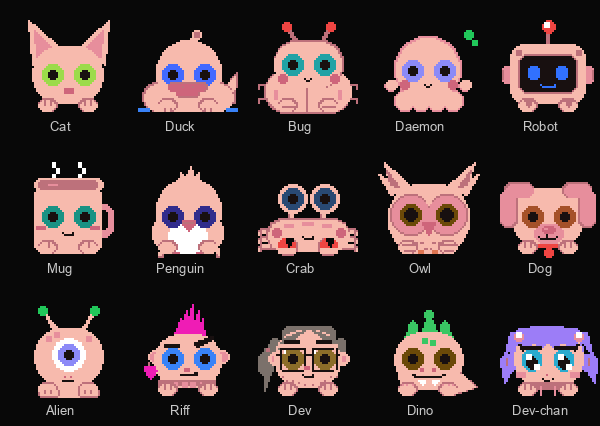
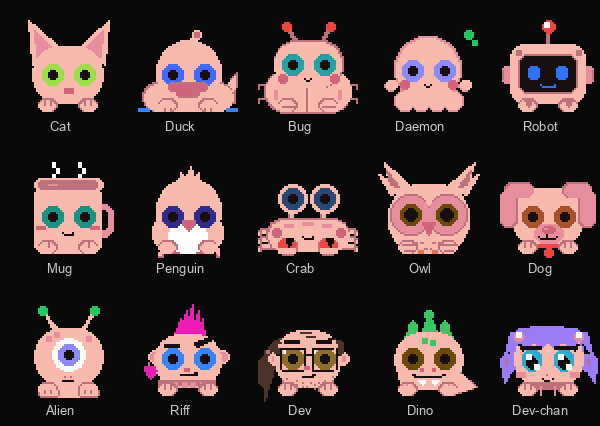
fix(pets): the Dev is a veteran: bare top, dark hair at the sides, a long ponytail
The grey hair cap read as a grandmother. Now the top of the head is bare
(two thin strands), the dark brown hair only shows at the sides and back,
the ponytail hangs to the shoulder, the stubble is clearly visible, the
brows are flat with the right one raised and the mouth is a slight smirk.
README lineup regenerated.

Changed region(s): [[0.42, 0.7629, 0.6, 0.946]]

diff --git a/firmware/lib/miblo_ui/src/ui_pet_dev.cpp b/firmware/lib/miblo_ui/src/ui_pet_dev.cpp
@@ -1,6 +1,6 @@
 // The Dev pet (miblo::Pet::Dev): an original veteran developer, a round creature (not a human)
-// with thin rectangular glasses, swept-back greying hair tied in a ponytail (the accent colour),
-// a stubble shadow, calm eyebrows and a mild little smile. See ui_pet.h for the contract.
+// with thin rectangular glasses, a high bare forehead, dark hair only on the sides and back tied in
+// a long ponytail (the accent colour), stubble, flat sceptical eyebrows and a slight smirk. See ui_pet.h for the contract.
 #include "miblo_rom.h"
 #include "ui_pet.h"
 
@@ -10,25 +10,27 @@ namespace color = ui::color;
 
 namespace {
 
-constexpr uint16_t kGreyHair = 0x7B8D;  // #78706c: the hair's Auto colour (salt and pepper)
+constexpr uint16_t kDarkHair = 0x49A5;  // #4a3428: the hair's Auto colour (dark brown)
 constexpr uint16_t kHazel = 0x8B65;     // #8c6c28: the eyes' Auto colour
 
 // The stubble: dots around the mouth and along the jaw (before c.x / c.b).
-const int8_t kStubble[][2] MIBLO_ROM = {{-18, 20}, {-14, 24}, {-20, 25}, {-9, 27}, {-15, 29}, {-3, 29},
-                                        {3, 28},   {10, 27},  {16, 29},  {14, 24}, {19, 21}, {21, 26},
-                                        {-23, 21}, {24, 22}};
+const int8_t kStubble[][2] MIBLO_ROM = {{-22, 19}, {-19, 23}, {-23, 25}, {-15, 26}, {-11, 24}, {-18, 29},
+                                        {-11, 29}, {-6, 27},  {-2, 30},  {2, 26},   {5, 29},   {9, 26},
+                                        {12, 29},  {15, 24},  {18, 28},  {21, 21},  {22, 25},  {-5, 31},
+                                        {6, 32}};
 
 // The ponytail, tied at the back of the head on its left and hanging down, swung by `sway`.
 void ponytail(const PetCtx& c, int sway) {
   MascotPen& d = c.d;
   const int x = c.x, b = c.b;
-  d.circle(-30 + x, -6 + b, 6, c.mc.accent);  // the tuft where it is tied
-  d.tri(-40 + x, -4 + b, -26 + x, -2 + b, -40 + sway + x, 34 + b, c.mc.accent);
-  d.rrect(-45 + sway / 2 + x, 0 + b, 12, 22, 6, c.mc.accent);
-  d.rect(-37 + x, -3 + b, 8, 3, c.mc.line);  // the hair tie
+  d.circle(-31 + x, -4 + b, 5, c.mc.accent);  // the tuft where it is tied
+  d.tri(-39 + x, -2 + b, -27 + x, 0 + b, -40 + sway + x, 42 + b, c.mc.accent);  // long, to the shoulder
+  d.rrect(-44 + sway / 2 + x, 4 + b, 10, 28, 5, c.mc.accent);
+  d.rect(-38 + x, -1 + b, 8, 3, c.mc.line);  // the hair tie
 }
 
-// The brows: calm and level; up in surprise, frowning towards the middle when grumpy.
+// The brows: flat, the right one a little raised (sceptical); up in surprise, frowning towards the
+// middle when grumpy.
 void brows(const PetCtx& c) {
   MascotPen& d = c.d;
   const int x = c.x, b = c.b;
@@ -40,7 +42,8 @@ void brows(const PetCtx& c) {
   }
   const int lift = c.k.eyes == Eyes::Wide ? 3 : 0;
   d.rrect(-22 + x, -10 - lift + b, 15, 3, 1, col);
-  d.rrect(7 + x, -10 - lift + b, 15, 3, 1, col);
+  d.rect(7 + x, -11 - lift + b, 15, 3, col);
+  d.rect(17 + x, -12 - lift + b, 5, 1, col);
 }
 
 // Its own thin glasses: the eyes are behind the lenses (what of an eye reaches past a lens is cut
@@ -71,9 +74,7 @@ void devHead(const PetCtx& c) {
   const PetColors& mc = c.mc;
   const int x = c.x, b = c.b;
   if (!c.wag) ponytail(c, 0);  // (the Tail antic swings it: devTail)
-  d.rrect(-24 + x, -24 + b, 48, 14, 7, mc.accent);  // the hair, peeking out above and at the temples
-  d.rrect(-33 + x, -13 + b, 9, 14, 4, mc.accent);
-  d.rrect(24 + x, -13 + b, 9, 14, 4, mc.accent);
+  d.rrect(-33 + x, -12 + b, 66, 26, 10, mc.accent);  // the hair at the back, out at the sides
   d.circle(-31 + x, 6 + b, 5, mc.skin);  // small round ears
   d.circle(31 + x, 6 + b, 5, mc.skin);
   if (c.detail) {
@@ -81,9 +82,13 @@ void devHead(const PetCtx& c) {
     d.circle(31 + x, 6 + b, 2, mc.earIn);
   }
   d.rrect(-30 + x, -19 + b, 60, 51, 24, mc.skin);  // the round head
-  if (c.detail) {  // the hair swept back over the top (a high forehead: a veteran)
-    d.tri(-23 + x, -12 + b, -4 + x, -20 + b, -27 + x, -3 + b, mc.accent);
-    d.tri(23 + x, -12 + b, 4 + x, -20 + b, 27 + x, -3 + b, mc.accent);
+  for (int s = -1; s <= 1; s += 2) {  // the hair over the temples; the top is bare (a veteran)
+    const int o = s < 0 ? -1 : 0;     // mirror a w-unit-wide piece: left edge s * a + o * w
+    d.rrect(s * 24 + o * 7 + x, -11 + b, 7, 15, 3, mc.accent);
+  }
+  if (c.detail) {  // a few thin strands left on top
+    d.rect(-7 + x, -17 + b, 11, 1, mc.accent);
+    d.rect(-2 + x, -15 + b, 9, 1, mc.accent);
   }
   if (c.desk && (c.k.extras & kFluffed)) {  // bristling: tufts on both cheeks
     for (int s = -1; s <= 1; s += 2) {
@@ -95,7 +100,7 @@ void devHead(const PetCtx& c) {
     for (size_t i = 0; i < sizeof(kStubble) / sizeof(kStubble[0]); i++) {
       int8_t p[2];
       mibloRomCopy(p, kStubble[i], sizeof(p));
-      d.rect(p[0] + x, p[1] + b, 1, 1, mc.line);
+      d.rect(p[0] + x, p[1] + b, 2, 2, mc.line);
     }
   }
   petEyes(c);
@@ -106,10 +111,9 @@ void devHead(const PetCtx& c) {
   }
   brows(c);
   d.rrect(-3 + x, 12 + b, 6, 4, 2, mc.nose);
-  if (!c.desk || !(c.k.extras & (kMouthO | kMouthWide))) {  // a mild little smile
-    d.rect(-6 + x, 20 + b, 2, 2, mc.lid);
-    d.rect(-4 + x, 21 + b, 8, 2, mc.lid);
-    d.rect(4 + x, 20 + b, 2, 2, mc.lid);
+  if (!c.desk || !(c.k.extras & (kMouthO | kMouthWide))) {  // a flat line, a slight smirk on the right
+    d.rect(-6 + x, 21 + b, 10, 2, mc.lid);
+    d.rect(4 + x, 20 + b, 3, 2, mc.lid);
   }
 }
 
@@ -130,10 +134,10 @@ void devFront(const PetCtx& c) {
 static void devTail(const PetCtx& c) {
   const int w = petSwing(c), x = c.x, b = c.b, tip = -40 + 3 * w;
   ponytail(c, 3 * w);
-  c.d.tri(tip - 3 + x, 28 + b, tip + 3 + x, 28 + b, tip + (w < 0 ? -6 : w > 0 ? 6 : 0) + x, 38 + b, c.mc.accent);
+  c.d.tri(tip - 3 + x, 34 + b, tip + 3 + x, 34 + b, tip + (w < 0 ? -6 : w > 0 ? 6 : 0) + x, 44 + b, c.mc.accent);
 }
 
 // The glasses accessory sits on its own glasses (and covers them): the cat's anchors.
-const PetDef kPetDev MIBLO_ROM = {devHead, devFront, MIBLO_CAT_ANCHORS, kHazel, kGreyHair, devTail};
+const PetDef kPetDev MIBLO_ROM = {devHead, devFront, MIBLO_CAT_ANCHORS, kHazel, kDarkHair, devTail};
 
 }  // namespace screens
